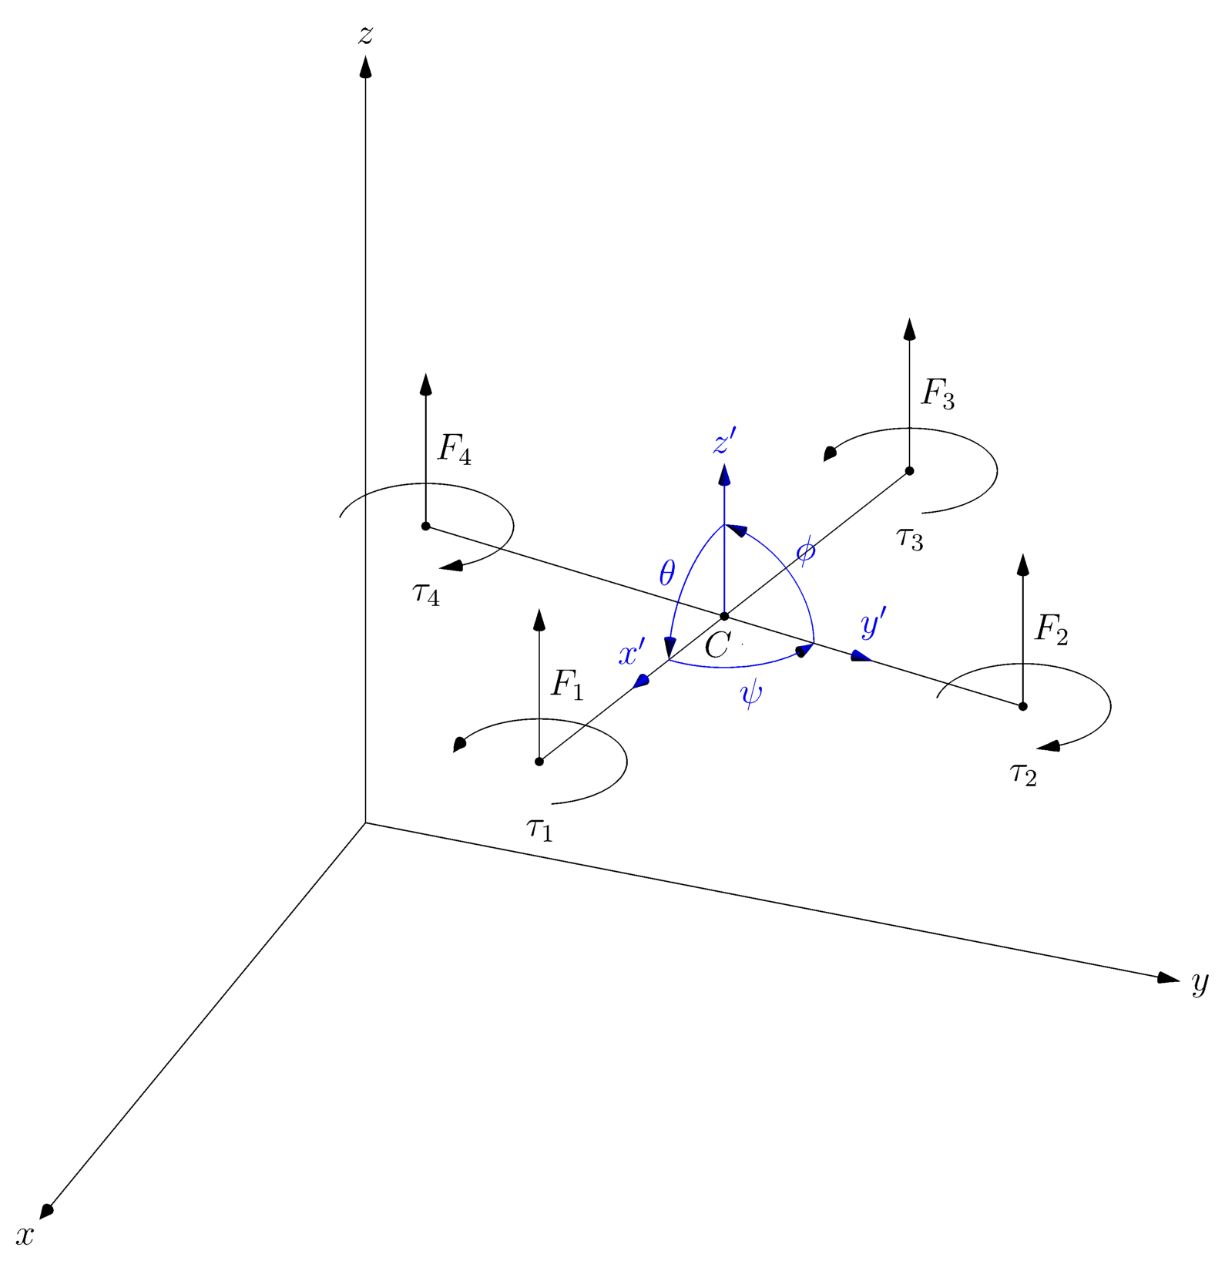
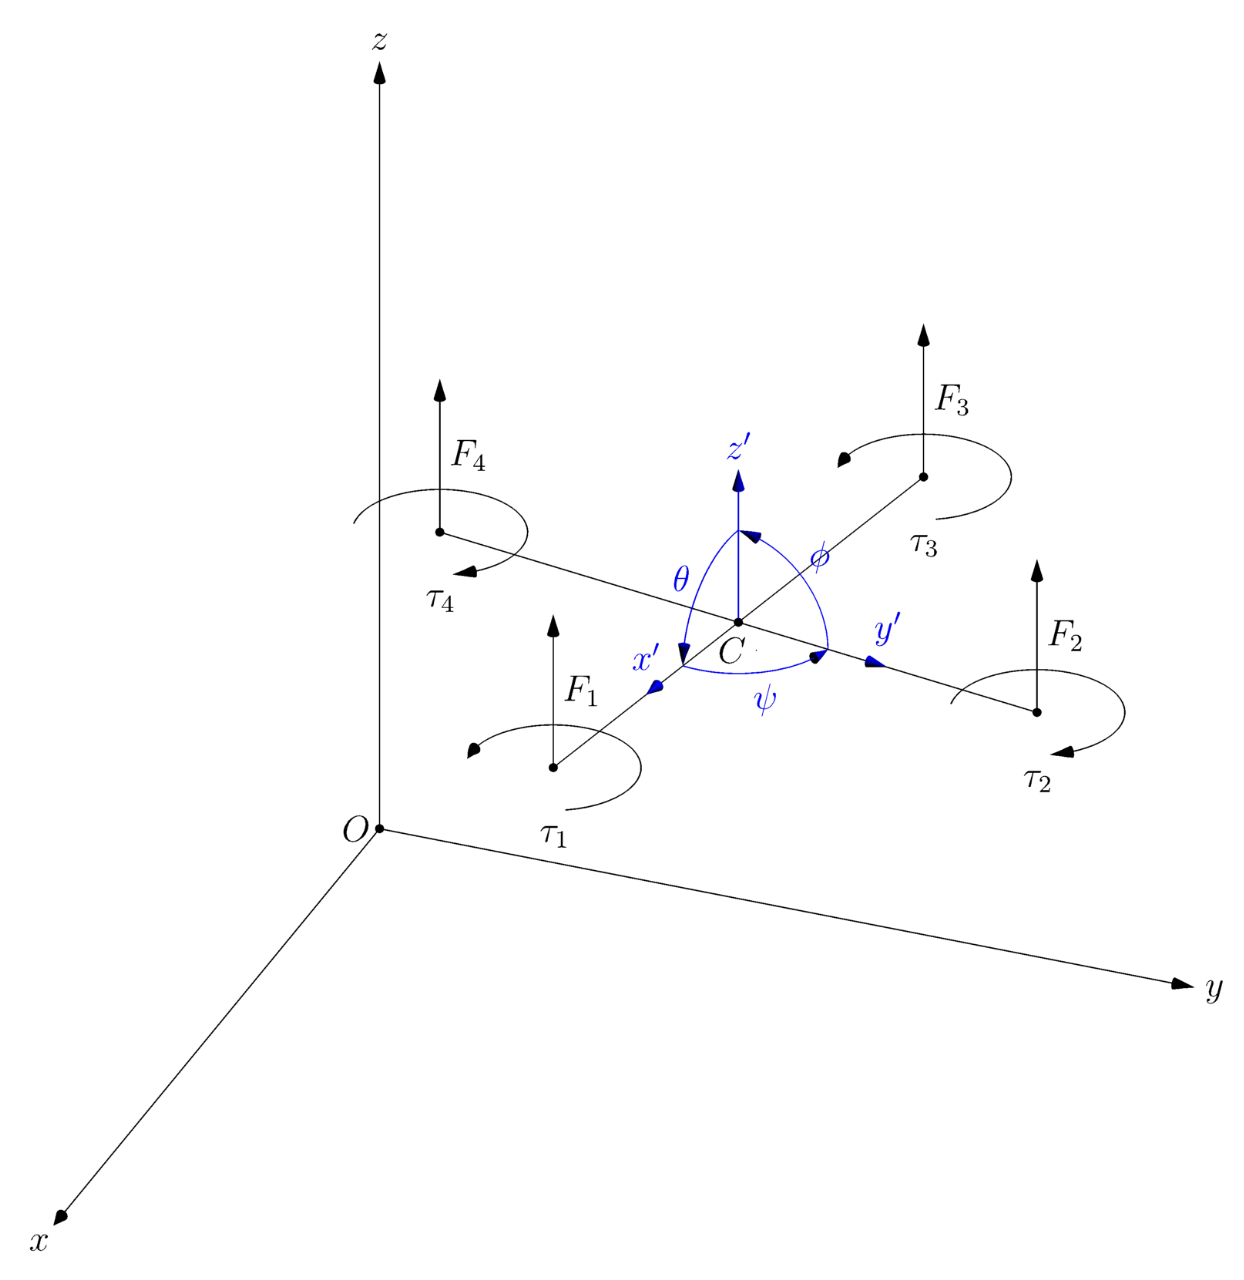
fourth editing round

diff --git a/_posts/2026-04-11-3d-quadcopter-simulation.md b/_posts/2026-04-11-3d-quadcopter-simulation.md
@@ -12,27 +12,10 @@ title: "Simulating a 3D quadcopter from scratch"
 >
 </script>
 
-<!--
--   FBD
-    -   differences between world and body frame and why we choose which
-    -   quaternions
--   newton-euler equations of motion
-    -   deriving equations of motion
--   choosing how to go to state space
-    -   euler angles vs body rates / angular velocities, quaternion vs body rates
-    -   quaternion derivatives
--   choosing our inputs and how mixer transates from input to forces
--   Python implementation
--   viz, it works!
--   bonus, visualization via rerun.io
--   bonus, rust implementation (next post I say)
--->
-
-Our series on quadcopter simulation and control continues with this post, which explains how to model a 3D quadcopter.
-We will derive the equations of motion, introduce quaternions and quaternion derivatives, transform them into state-space form, and finally simulate the system in Python.
-
-This post will be longer and more technical than the previous post, which covers the 2D case.
-As it turns out, the problem becomes more complicated in 3D and requires more advanced parts of math.
+This post is the second post in our series on quadcopter simulation.
+Today, we simulate a three-dimensional quadcopter.
+We will derive the equations of motion, transform them into state-space form, and finally simulate the system in Python.
+Along the way, we introduce quaternions and quaternion derivatives.
 
 ## Problem setup and coordinates
 
@@ -40,15 +23,16 @@ As it turns out, the problem becomes more complicated in 3D and requires more ad
 The free-body diagram for the quadcopter is shown below.
 We use a right-hand coordinate frame with the $$z$$ axis for altitude.
 The axes $$\{x, y, z\}$$ are constant over time and form the world frame.
-This frame of reference doesn't accelerate and it's inertial.
-The axes $$\{x', y', z'\}$$ instead are always located at the quadcopter center of mass and form the body frame, which changes over time.
+This frame of reference is inertial (does not accelerate).
+The axes $$\{x', y', z'\}$$ instead are always attached to the quadcopter center of mass and form the body frame, which changes over time.
 The body frame is not an inertial frame of reference, as the drone accelerates.
 Some equations of motion are easier to write in the world frame while others in the body frame.
 Our model uses both.
 
 <!-- FBD body, forces, and torques. Position and attitude. -->
 The quadcopter is made of four rods of length $$\ell$$ laid in a "+" pattern around the center $$C$$.
-There is a spinning propeller at the end of each rod, which generates thrust $$F_i$$ and, because of the propeller drag, a torque $$\tau_{i} = \frac{F_i}{k}$$ opposite to the propeller spin direction.
+There is a spinning propeller at the end of each rod, which generates thrust $$F_i$$.
+Propeller drag generates a torque $$\tau_{i} = \frac{F_i}{k}$$ opposite to the propeller spin direction.
 The quadcopter can have arbitrary position and attitude (i.e. its orientation).
 Let $$\mathbf{p}$$ be the position vector from origin $$O$$ to center of mass $$C$$.
 Let $$q$$ be the quaternion that rotates a vector’s coordinates from the body frame to the world frame, representing the attitude.
@@ -60,22 +44,22 @@ Let $$q$$ be the quaternion that rotates a vector’s coordinates from the body 
 
 ### Quaternions
 <!-- Aside: what are quaternions, where to learn about them, why we use them -->
-Let's briefly talk about quaternions, as I expect most people to not be familiar with them.
+We briefly introduce quaternions here because they are the most convenient way to represent attitude in this model.
 Quaternions, unit quaternions to be precise, are a way to represent rotations.
 Rotations, especially in 3D, are strange objects as they don't live in the usual $$\mathbb{R}^3$$ like position or velocity vectors.
 Instead, rotations live in a space called the 3D special orthogonal group, or $$\text{SO}(3)$$.
 Representing $$\text{SO}(3)$$ objects in $$\mathbb{R}^3$$ is possible, for example using Euler angles, but leads to issues like singularities and numerical instability.
 For our purposes, representing attitude with quaternions leads to simpler, more efficient, and more numerically stable code.
-To find out more, my favourite resource is [this video by Freya Holmer](https://www.youtube.com/watch?v=PMvIWws8WEo) paired with your favourite LLM for clarifications. <!-- TODO: rephrase -->
+For a geometric introduction to quaternions, I recommend [this video by Freya Holmer](https://www.youtube.com/watch?v=PMvIWws8WEo).
 We'll talk more about quaternions, specifically about their derivatives, later in the post.
 
 ## Deriving the equations of motion
 <!-- Introducing Newton-Euler equations of motion -->
 Having introduced our free body diagram, let's write the Newton-Euler rigid body equations of motion.
 In 2D we could work with three scalar equations, two for position ($$y, z$$ axes) and one for rotation.
-In 3D instead we have a system of six equations: three for translation (in world frame), three for rotation (in body frame), written in vector form.
+In 3D we have six equations: three for translation (in world frame), three for rotation (in body frame), written in vector form.
 $$\mathbf{\dot{v}}$$ is the time derivative of velocity, itself the derivative of position $$\mathbf{p}$$.
-$$\dot{\omega}$$ is the time derivative of angular velocity, which is NOT the derivative of attitude (the two are connected via the kinematic matrix).
+$$\dot{\omega}$$ is the time derivative of angular velocity, which is not the derivative of attitude (the two are connected via the kinematic matrix).
 Finally, $$m$$ is the mass and $$I$$ is the moment of inertia.
 
 $$
@@ -99,9 +83,9 @@ We derive the rotation equations in the body frame by seeing how each force or t
 We denote rotations about the body-frame axes by roll $$\phi$$, pitch $$\theta$$, and yaw $$\psi$$.
 If the second motor speeds up, increasing $$F_2$$, roll $$\phi$$ will increase.
 If the fourth motor speeds up, increasing $$F_4$$, roll $$\phi$$ will decrease.
-Thus the force couple $$(F_2 - F_4)$$, multiplied by arm length $$\ell$$ will form the torque on the $$x'$$ axis.
+Thus the force couple $$(F_2 - F_4)$$, multiplied by arm length $$\ell$$, will form the torque on the $$x'$$ axis.
 The same argument holds for $$F_1, F_3$$ and $$\theta$$ (pitch) on the $$y'$$ axis.
-Finally, for $$\psi$$ (yaw) on the $$z'$$ axis, we simply add together all propeller drag torques $$\tau_i$$.
+Finally, for $$\psi$$ (yaw) on the $$z'$$ axis, we simply add together all propeller drag torques $$\tau_i$$ (positive sign for CCW rotation, negative for CW).
 
 $$
 \begin{aligned}
@@ -121,14 +105,14 @@ $$
 ## Converting to state-space form
 <!-- Equations of motion to state-space representation: re-arranging -->
 Let's now start re-arranging the equations so that we can write our system in state-space form.
-First, let's define mass-normalized thrust $$\mathbf{c}$$ and torques $$\Tau$$:
+First, let's define mass-normalized thrust $$\mathbf{c}$$ and torques $$\mathbf{\Tau}$$:
 
 $$
 \begin{aligned}
 
 \mathbf{c} &= \frac{1}{m} (\mathbf{F_1} + \mathbf{F_2} + \mathbf{F_3} + \mathbf{F_4}) \\
 
-\Tau &=
+\mathbf{\Tau} &=
 \begin{bmatrix}
     \ell (F_2 - F_4) \\
     \ell (F_3 - F_1) \\
@@ -144,7 +128,7 @@ $$
 \begin{aligned}
 
 \mathbf{\dot{v}} &= -\mathbf{g} + \text{rotate}(q, \mathbf{c}) \\
-\dot{\omega} &= I^{-1} (\Tau - \omega \times I \omega)
+\dot{\omega} &= I^{-1} (\mathbf{\Tau} - \omega \times I \omega)
 
 \end{aligned}
 $$
@@ -156,13 +140,13 @@ $$
 \mathbf{\dot{x}} = f(\mathbf{x}, \mathbf{u})
 $$
 
-In our case, our input is simply the motor forces $$\mathbf{u} = \left[ \mathbf{F_1}, \mathbf{F_2}, \mathbf{F_3}, \mathbf{F_4} \right]^T$$.
-Parametrizing the state is more complicated: we want a first-order system, so we include velocities $$\mathbf{v}$$ and $$\omega$$ in the state.
+We describe later how the input $$\mathbf{u}$$ is parametrized, so we focus on the state.
+We want a first-order system, so we include velocities $$\mathbf{v}$$ and $$\omega$$ in the state.
 <!-- euler angles vs body rates / angular velocities, quaternion vs body rates -->
 But what should our zeroth-order quantities be?
 For translations, it's easy, we will use position $$\mathbf{p}$$ whose derivative is the velocity.
 For rotations, it turns out that the best parametrization is the quaternion $$q$$.
-This results in a 13-dimensional (3 + 4 + 3 + 3) state:
+This results in a $$13$$-dimensional $$(3 + 4 + 3 + 3)$$ state:
 
 $$
 \mathbf{x} = \left[\mathbf{p}, q, \mathbf{v}, \omega \right]^T
@@ -186,46 +170,45 @@ f(\mathbf{x}, \mathbf{u}) =
     \mathbf{v} \\
     ? \\
     -\mathbf{g} + \text{rotate}(q, \mathbf{c}) \\
-    I^{-1} (\Tau - \omega \times I \omega)
+    I^{-1} (\mathbf{\Tau} - \omega \times I \omega)
 \end{bmatrix}
 $$
 
 ### Quaternion derivatives
 <!-- quaternion derivatives -->
-But what's the derivative of a quaternion?
-Answering this question rigorously requires mathematics beyond my comfort level.
-But below is my attempt at a proof of the formula we will use.
-The proof comes from [Quaternion differentiation](https://fgiesen.wordpress.com/2012/08/24/quaternion-differentiation), adapted to this post's notation.
+We now need an expression for the derivative of the attitude quaternion.
+A fully rigorous treatment takes us beyond the scope of this post, so we derive the formula in the form needed for the simulator.
+The argument below follows [Quaternion differentiation](https://fgiesen.wordpress.com/2012/08/24/quaternion-differentiation), adapted to this post's notation.
 
 Let $$q(0) = q$$ be our attitude quaternion at time $$t=0$$.
 We denote quaternion multiplication between quaternions $$q_a$$ and $$q_b$$ with $$q_a \otimes q_b$$.
 Our quadcopter rotates by $$ \omega \cdot 1$$ in one unit of time.
 Let $$q_{\omega}$$ be the quaternion representing the rotation.
 This means that at time $$t = 1$$, we have $$q(1) = q \otimes q_{\omega}$$ (notice how the transformation is applied on the right).
-And, by induction, $$q(t) = q \otimes q_{\omega}^t$$ at time $$t$$ (this is only true for small, instantaneous, time steps as $$\omega$$ itself changes through time).
+And, by induction, $$q(t) = q \otimes q_{\omega}^t$$ at time $$t$$ (this is only true for small, instantaneous time steps as $$\omega$$ itself changes through time).
 
 Any unit quaternion can be represented as the exponential of a pure imaginary quaternion, just like any complex number $$z$$ can be written as the exponential of a pure imaginary number $$i\theta$$ or $$z = e^{i\theta}$$.
 We call $$\omega^{\wedge}$$ the pure imaginary quaternion (a 4D quantity) created from the 3D angular velocity $$\omega$$ (in the body frame) or $$\omega^{\wedge} = \left(0, \omega_1, \omega_2, \omega_3 \right)$$.
 This lets us write $$q_{\omega} = e^{\frac{1}{2} \omega^{\wedge}}$$ and $$q_{\omega}^t = e^{\frac{1}{2} \omega^{\wedge} t}$$.
 The additional factor $$\frac{1}{2}$$ is a result of how quaternions are a "double cover" of rotations, an artifact of the particular representation of $$\text{SO}(3)$$ we picked.
 
-Putting everything together:
+With these definitions, we can write
 
 $$q(t) = q \otimes e^{\frac{1}{2} \omega^{\wedge} t}$$
 
-and differentiating:
+Differentiating with respect to time gives
 
 $$
 \begin{aligned}
 
-\dot{q(t)} &= q \otimes e^{\frac{1}{2} \omega^{\wedge} t} \otimes \frac{1}{2} \omega^{\wedge} \\
+\dot{q}(t) &= q \otimes e^{\frac{1}{2} \omega^{\wedge} t} \otimes \frac{1}{2} \omega^{\wedge} \\
 
-\dot{q(t)} &= q(t) \otimes \frac{1}{2} \omega^{\wedge}
+\dot{q}(t) &= q(t) \otimes \frac{1}{2} \omega^{\wedge}
 
 \end{aligned}
 $$
 
-That's it! We've made it through the proof, and can finally write the state-space formulation of our system:
+With this expression for $$\dot{q}$$, we can complete the state-space formulation of the system:
 
 $$
 \mathbf{\dot{x}} =
@@ -243,17 +226,18 @@ f(\mathbf{x}, \mathbf{u}) =
     \mathbf{v} \\
     q \otimes \frac{1}{2} \omega^{\wedge} \\
     -\mathbf{g} + \text{rotate}(q, \mathbf{c}) \\
-    I^{-1} (\Tau - \omega \times I \omega)
+    I^{-1} (\mathbf{\Tau} - \omega \times I \omega)
 \end{bmatrix}
 $$
 
+### Input parameter and mixer equations
 <!-- choosing our inputs and how mixer transates from input to forces -->
-The last bit we need to handle is how to parametrize our inputs $$u$$ and how they translate into our forces $$F_i$$.
+The last bit we need to handle is how to parametrize our inputs $$\mathbf{u}$$ and how they translate into our forces $$F_i$$.
 This choice is a bit arbitrary, but following [Deep Drone Acrobatics](https://arxiv.org/abs/2006.05768) and [Champion-level drone racing using deep reinforcement learning](https://www.nature.com/articles/s41586-023-06419-4) we use mass-normalized thrust and three rotational control inputs.
 We call the inputs $$u_c$$ for mass-normalized thrust and $$u_p, u_q, u_r$$ for roll, pitch, and yaw control.
 The function mapping inputs to forces is called "mixer".
 For more details on how to extend this to more shapes and propellers check out [Motor Mixer Theory](https://cookierobotics.com/066/).
-These equations can be derived with a simple (but easy to get wrong) geometric argument from the free body diagram.
+These equations can be derived with a simple geometric argument from the free body diagram.
 
 Let $$F_t = \frac{u_c m}{4} $$, and remembering that $$k$$ is the propeller-drag ratio, then our mixer is:
 
@@ -331,7 +315,7 @@ def mixer(u: NDArray) -> NDArray:
 With the dynamics (and mixer) defined, we use Euler's method to solve the first-order ordinary differential equations.
 We initialize the quadcopter two meters above the origin at $$\mathbf{p}=(0, 0, 2)$$.
 A "zero" rotation is a unit quaternion $$(1, 0, 0, 0)$$.
-We set the mass-normalized thrust $$u_c$$ to be just above $$g$$, to make the quadcopter go up.
+We set the mass-normalized thrust $$u_c$$ to be just above $$g$$, so the quadcopter accelerates upward.
 We set the yaw control input $$u_r$$ to a piecewise-constant function: it is 0 at first, then 10 for one second, then 0 for one second, then -10 for one second, and finally 0 again.
 
 ```python
